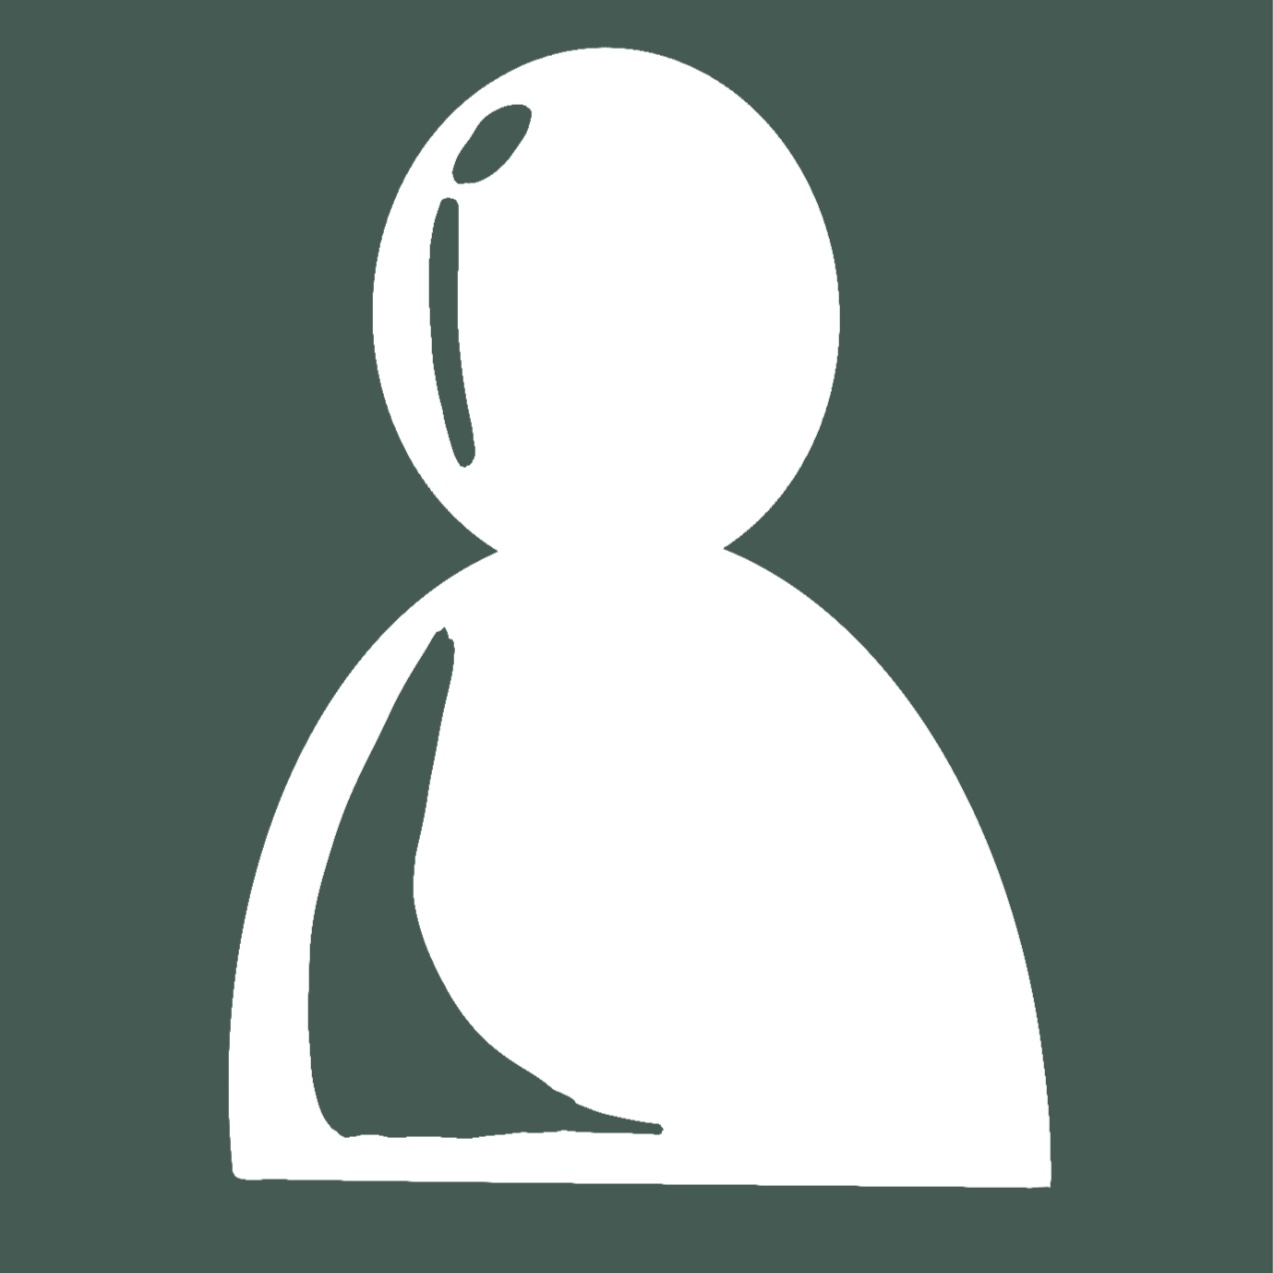
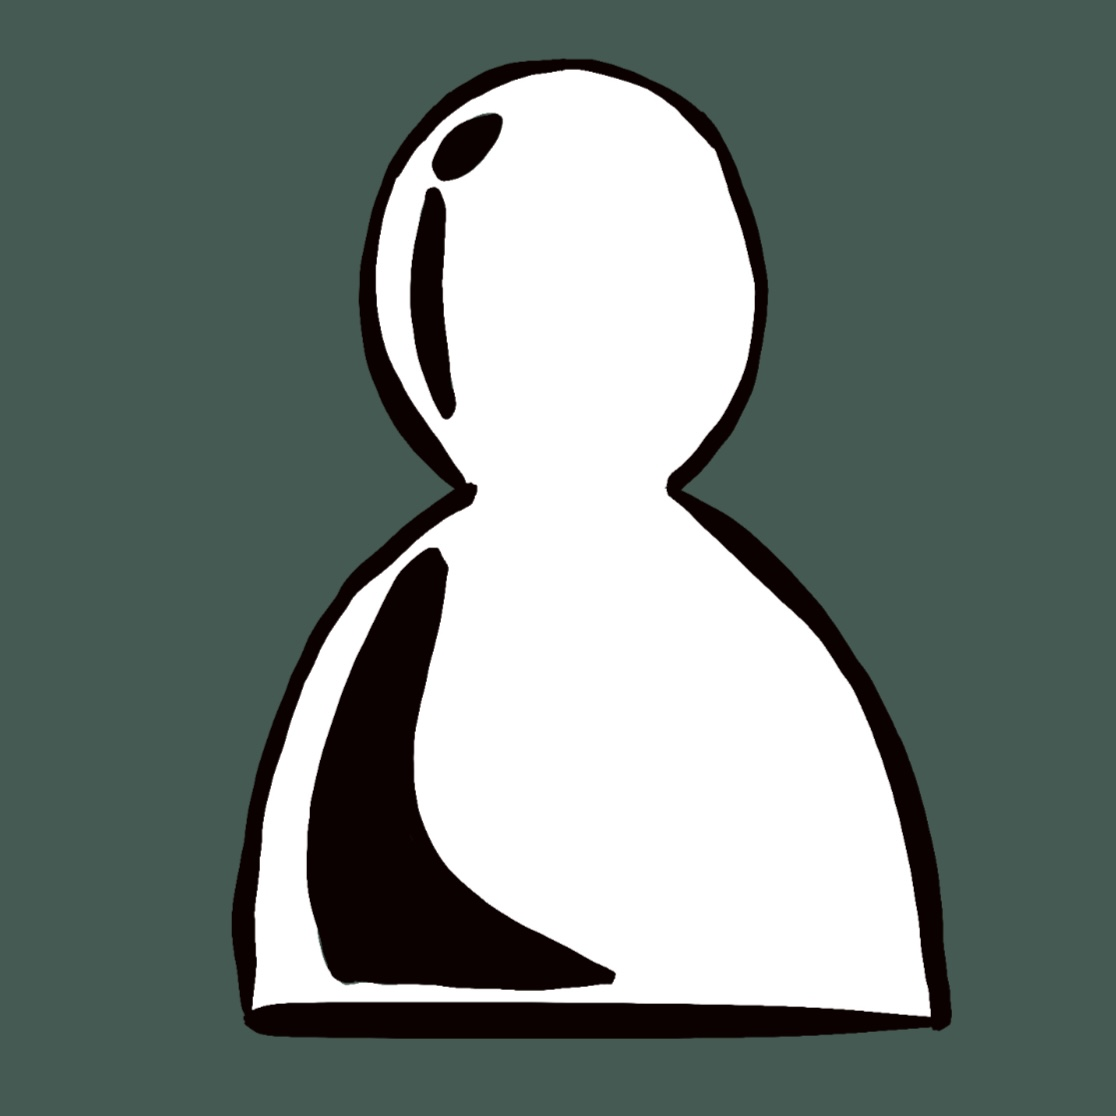
Layout has been polished

Changed region(s): [[0.1523, 0.0305, 0.853, 0.9444]]

diff --git a/myproject.html b/myproject.html
@@ -7,8 +7,8 @@
 <body>
     <img src="images/photo_collage_1.jpg"> <!--ADD alt.text-->
     <h2>"MY PROJECTS"</h2>
-    <p>Title: Conway's Game of Life 
-
+    <h3>Title: Conway's Game of Life </h3>
+    <p>
 Description:
 This project is a visual simulation of 
 Conway's Game of Life, the famous cellular 
@@ -33,8 +33,8 @@ Technology Stack: Python, Turtle
         GitHub Repo: <a href="https://github.com/Deinick/deinick.github.io/blob/main/My_Projects/game_of_life.py" target="_blank">Conway's Game of Life </a>
     </p>
     <img src="images/photo_gol.jpg"><!--ADD alt.text-->
-    <p>Title: Classic Snake game - with turtle graphics
-
+    <h3>Title: Classic Snake game - with turtle graphics</h3>
+    <p>
 Description:
 This is a simple version of the classic Snake 
 game, created in Python using the
@@ -52,10 +52,12 @@ Managing game state (reset, win/loss conditions).
 
 Technology Stack: Python, Turtle
     </p>
-    <p>GitHub Repo: <a href="https://github.com/Deinick/deinick.github.io/blob/main/My_Projects/snake.py" target="_blank">Snake game></a></p>
+    <p>GitHub Repo: <a href="https://github.com/Deinick/deinick.github.io/blob/main/My_Projects/snake.py" target="_blank">Snake game </a></p>
     <img src="images/photo_snake.jpg"><!--ADD alt.text-->
 
-    <p>Title: Smart Vacuum Cleaner 
+    <h3>Title: Smart Vacuum Cleaner</h3>
+
+    <p>
 Description:
 This project models a smart robot vacuum
  cleaner navigating a 2D environment
@@ -82,7 +84,7 @@ Developing a GUI using tkinter in Python
 Technology Stack: Python, tkinter, object-oriented programming, AI search 
 algorithms
     </p>
-    <p>GitHub Repo: <a href="https://github.com/Deinick/deinick.github.io/tree/main/My_Projects/Smart_Vacuum_Cleaner" target="_blank">Smart Vacuum Cleaner ></a></p>
+    <p>GitHub Repo: <a href="https://github.com/Deinick/deinick.github.io/tree/main/My_Projects/Smart_Vacuum_Cleaner" target="_blank">Smart Vacuum Cleaner </a></p>
     <img src="images/photo_vac_clean.png"><!--ADD alt.text-->
     <h2>“Programming Experience” </h2>
     <p>                                                        I’m comfortable working with:
